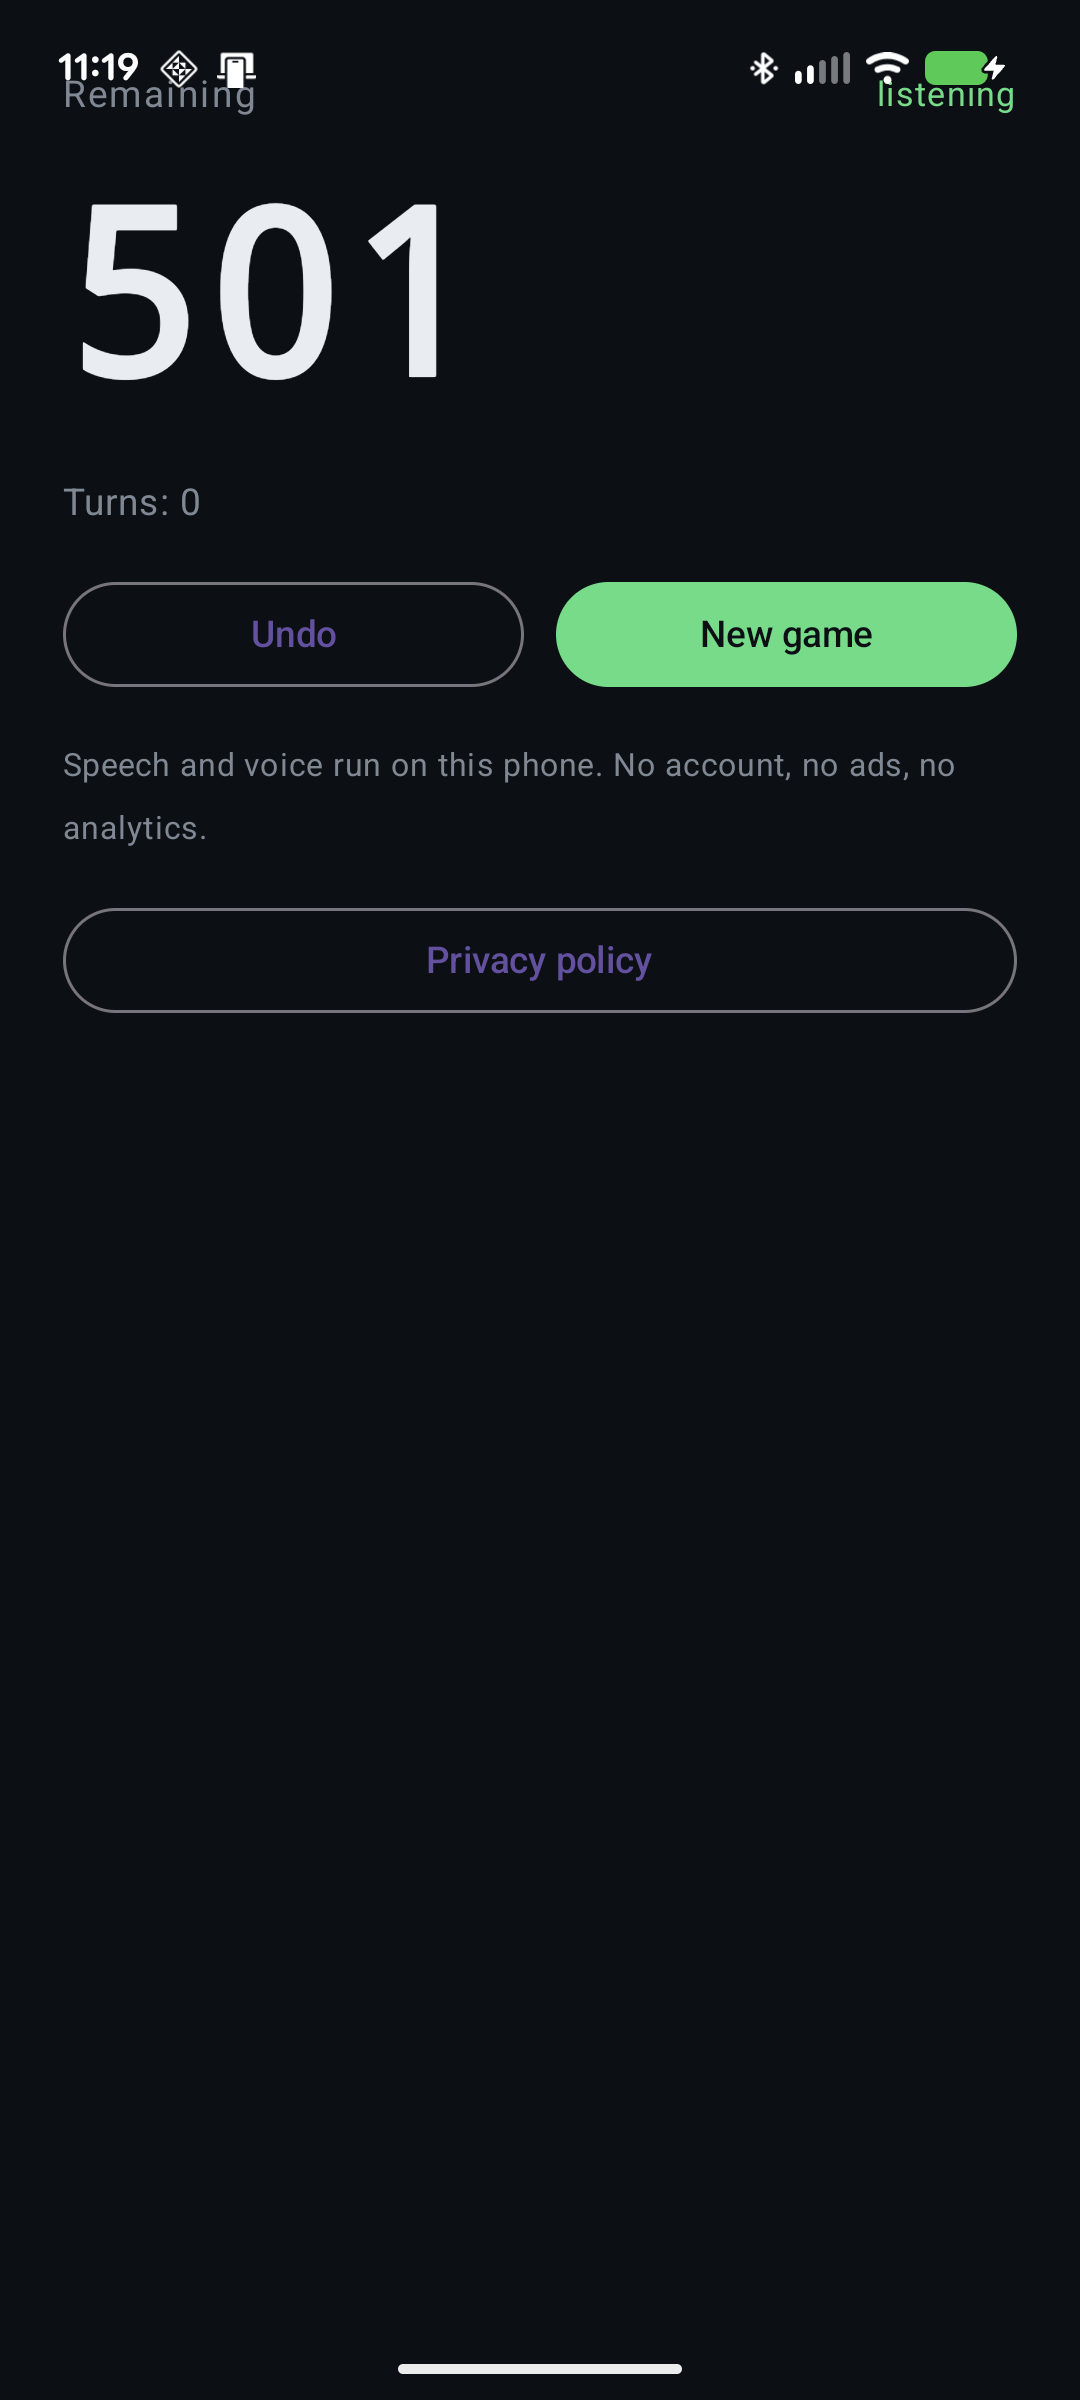
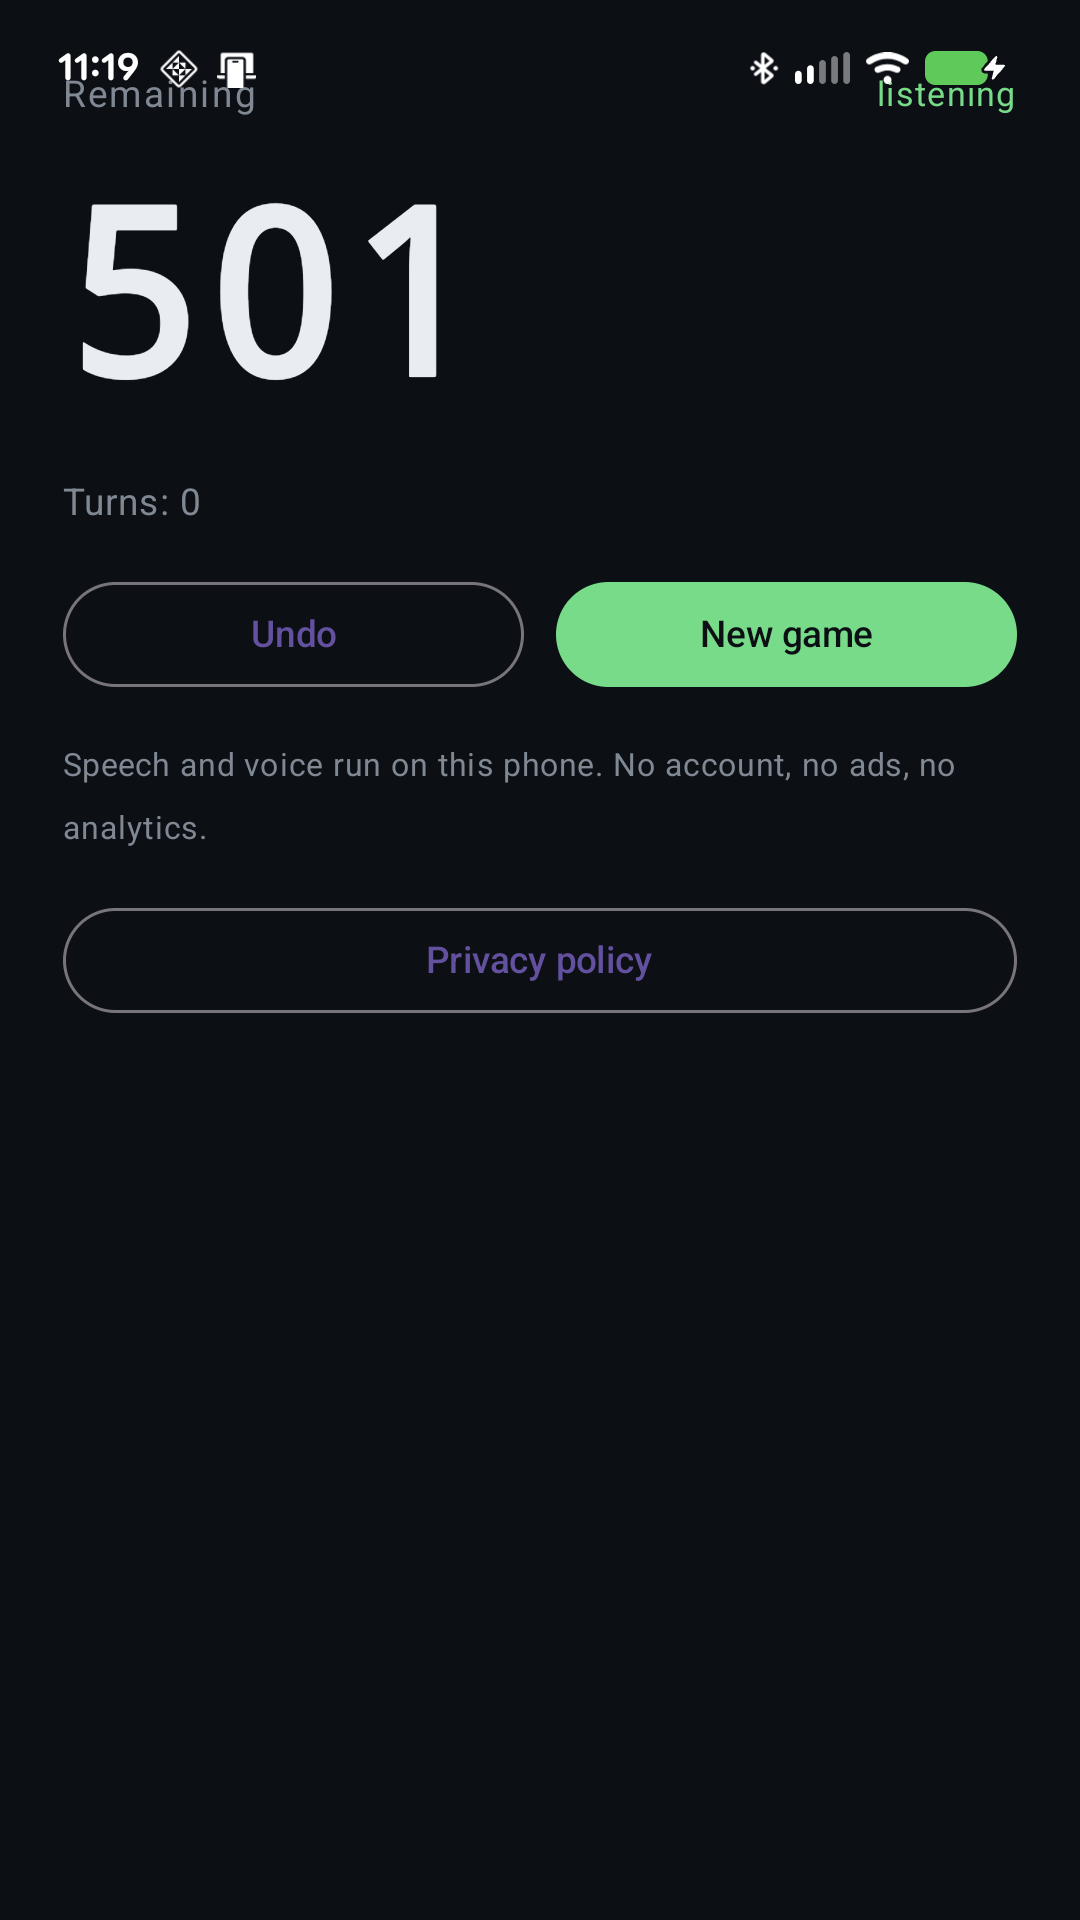
Take the two store screenshots that needed the app to hear a score
Four screenshots are wanted for the listing and two of them needed the app in a state you cannot reach by tapping: the score and its suggestion, and the read-back. Both were taken with the self-hearing test, which can now be told what to say, so the captures are the real app and the real voice rather than a mock-up.

All four are cropped to the 1080 x 1920 that Play asks for, from the 1080 x 2400 a Pixel 7 captures. The tool that does it is tools/crop-screenshots.py, so the crop is reproducible rather than something that was done once by hand. The strip comes off the bottom, where the buttons and the navigation bar are, and the files are flattened onto an opaque background, because there is nothing transparent in a screenshot and the Play console expects an opaque file.

diff --git a/tools/crop-screenshots.py b/tools/crop-screenshots.py
@@ -1,0 +1,66 @@
+"""
+Crops the phone screenshots down to the size Play asks for.
+
+A Pixel 7 captures 1080 x 2400, which is a 9:19.5 screen. Play wants 1080 x
+1920, which is 9:16, and it does not pad the image for you - the extra strip
+has to come off somewhere.
+
+It comes off the bottom. The top of a capture holds the status bar and the
+score, which is the part the listing is about, and the bottom holds the
+buttons and the navigation bar, which the listing does not need.
+
+The files are also flattened onto an opaque background. Play accepts a PNG
+with an alpha channel, but there is nothing transparent in a screenshot and
+an opaque file is one less thing to go wrong in the console.
+
+Run it:
+
+    python tools/crop-screenshots.py
+"""
+
+import pathlib
+import sys
+
+from PIL import Image
+
+ROOT = pathlib.Path(__file__).resolve().parent.parent
+SCREENSHOTS = ROOT / "docs" / "store" / "screenshots"
+
+TARGET_WIDTH = 1080
+TARGET_HEIGHT = 1920
+
+
+def crop(path: pathlib.Path) -> bool:
+    """Crops one file in place. Returns True if it changed."""
+    with Image.open(path) as image:
+        width, height = image.size
+        if width != TARGET_WIDTH or height <= TARGET_HEIGHT:
+            print(f"Skipped {path.name}: {width} x {height}")
+            return False
+        cropped = image.crop((0, 0, TARGET_WIDTH, TARGET_HEIGHT))
+        if cropped.mode != "RGB":
+            # Flatten it: a screenshot has no transparency, and an opaque
+            # file is what the Play console expects.
+            flattened = Image.new("RGB", cropped.size, (0, 0, 0))
+            flattened.paste(cropped, mask=cropped.split()[3])
+            cropped = flattened
+        cropped.save(path, "PNG", optimize=True)
+    print(f"Cropped {path.name} to {TARGET_WIDTH} x {TARGET_HEIGHT}")
+    return True
+
+
+def main() -> int:
+    if not SCREENSHOTS.exists():
+        print(f"Not found: {SCREENSHOTS}", file=sys.stderr)
+        return 1
+    files = sorted(SCREENSHOTS.glob("*.png"))
+    if not files:
+        print("No screenshots to crop.")
+        return 0
+    for path in files:
+        crop(path)
+    return 0
+
+
+if __name__ == "__main__":
+    raise SystemExit(main())

diff --git a/docs/store/screenshots/README.md b/docs/store/screenshots/README.md
@@ -1,27 +1,49 @@
 # Phone screenshots
 
-These are real captures from the app on a Pixel 7. They are 1080 x 1920 PNG
-files, which is the size Play recommends for phone screenshots.
+These are real captures from the app on a Pixel 7, cropped to 1080 x 1920
+PNG files, which is the size Play recommends for phone screenshots.
 
 | File | What it shows |
 |---|---|
 | `01-main.png` | The scoreboard: remaining score, the score and suggestion area, and the buttons. |
+| `02-suggestion.png` | The score and the suggestion after a visit: 401, "Treble twenty, treble twenty and treble twenty", T20 T20 T20, leaving 221. |
 | `03-privacy.png` | The privacy policy opened from inside the app. |
+| `04-readback.png` | The read-back: "You said one hundred and forty. Right?" |
 
 The screenshots still contain the Android status bar. That is acceptable to
 Play, but it is cleaner to crop it off before uploading.
 
-Take any further captures the same way:
+## How they were taken
+
+The two captures that need the app to hear a score were taken with the
+self-hearing test, which plays a phrase through the speaker with the
+microphone gate left open:
 
 ```
-adb shell screencap -p /sdcard/screen.png
-adb pull /sdcard/screen.png docs/store/screenshots/02-suggestion.png
-adb shell rm /sdcard/screen.png
+adb shell am start -n com.jr12866.dartcoach/.MainActivity \
+    --ez testpro true --ez selfhears true --es selfhear 'one\ hundred,yes'
 ```
 
-Screenshots that would be useful for the listing, but still need to be taken
-with the app in the right state:
+`--es selfhear` takes the phrases as one comma-separated string. The
+backslashes are because the command line is a shell one and a shell splits a
+list of arguments on the spaces. `one\ hundred,yes` says "one hundred" and
+then "yes", which is what a player does when the coach reads a score back.
 
-- the score and suggestion after a visit (401, treble twenty x3);
-- the read-back confirmation ("You said one hundred and forty. Right?");
-- the checkout plan ("That leaves 221").
+To take any further captures the same way:
+
+```
+adb exec-out screencap -p > screen.png
+python tools/crop-screenshots.py
+```
+
+The crop tool trims a 1080 x 2400 capture down to 1080 x 1920 and flattens
+it onto an opaque background. Play does not pad the image for you, and the
+extra strip comes off the bottom, where the buttons and the navigation bar
+are.
+
+The screenshots that would still be useful for the listing, and are not here
+yet:
+
+- the checkout plan on its own ("That leaves 221" as a spoken plan rather
+  than as part of the suggestion);
+- the out chart, the setup chart and the statistics screen.

diff --git a/docs/STORE-LISTING.md b/docs/STORE-LISTING.md
@@ -107,9 +107,22 @@ Take the real screenshots from the app rather than mock-ups, and remove the
 Android status/navigation bars if the capture tool allows it. Do not add
 device frames or promotional badges.
 
-Two captures already exist in `docs/store/screenshots/`: the main screen and
-the privacy policy. The others need the app in the right state, which means
-saying a score at the phone.
+**Four captures exist now**, all in `docs/store/screenshots/`, all 1080 x 1920
+PNG with no alpha:
+
+| File | Shows |
+|---|---|
+| `01-main.png` | The scoreboard |
+| `02-suggestion.png` | **401**, "Treble twenty, treble twenty and treble twenty", T20 T20 T20, leaving 221 |
+| `03-privacy.png` | The privacy promise |
+| `04-readback.png` | **"You said one hundred and forty. Right?"** |
+
+The two that needed the app to hear a score were taken with the self-hearing
+test, which plays the phrase through the speaker with the microphone gate
+left open. `docs/store/screenshots/README.md` has the command.
+
+Two more would be worth having when there is time: the checkout plan on its
+own ("That leaves 221" as a spoken plan), and the out chart.
 
 ## Alt text
 
